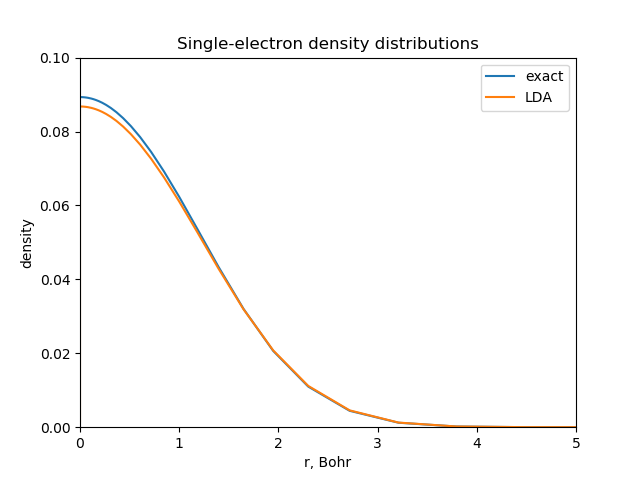
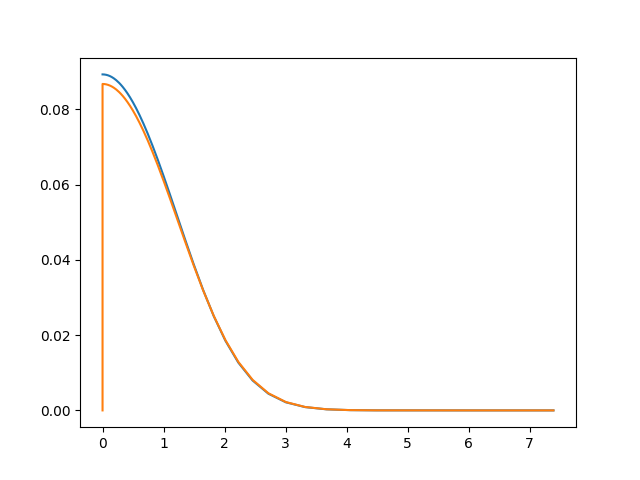
updated README examples

diff --git a/README.md b/README.md
@@ -14,37 +14,50 @@ Solve numerically
 ### Morse potential
 
 Using the following code, one can find the vibrational levels of the radical OH⋅,
-for which the potential energy surface is approximated through the Morse potential.
-
-The bulk of the calculations were performed by the Laplacian function.
+for which the potential energy surface is approximated through the [Morse potential](https://en.wikipedia.org/wiki/Morse_potential).
 
 ```julia
-using LinearAlgebra, AtomEnergyLevels
+using AtomEnergyLevels
+using LinearAlgebra, Test, Printf
 
 # Morse potential
-V(x, D, β, x₀) = D*(exp(-β*(x-x₀))-1)^2 - D;  
+V(x, D, β, x₀) = D*(exp(-β*(x-x₀))-1)^2 - D;
 
 # parameters of the O-H bond
 D  = 0.1994;   β = 1.189;  x₀ = 1.821;
 mH = 1.00794; mO = 15.9994; μ = 1822.8885*(mH*mO)/(mH+mO);  
 
 # grid
-x = range(2.0 - x₀, 12.0 + x₀, length = 501);
+x = (2.0 - x₀):0.1:(12.0 + x₀);
 
-Δ = laplacian(length(x), step(x));  
+# hamiltonian
+H = -1/2μ*laplacian(x) + Diagonal(V.(x, D, β, x₀));
 
-# Hamiltonian
-H = -1/2μ*Δ + Diagonal(V.(x, D, β, x₀));
-
-# numerical solution:
+# numerical solution
 ϵ, ψ = eigen(H);                      
 
 # exact solution
 ω = β*sqrt(2D/μ); δ = ω^2 / 4D;  
 E(n) = ω*(n+1/2) - δ*(n+1/2)^2 - D;
 
-ϵ[1] # -0.19047201661032384
-E(0) # -0.19047201661032412  
+# comparison
+@testset "energies of the Morse potential" begin
+  for i in 1:5
+    @printf "Level %i: E(exact) = %5.10f E(approx) = %5.10f\n" i E(i-1) ϵ[i]
+    @test ϵ[i] ≈ E(i-1) atol = 1e-9
+  end
+end
+```
+Output
+```
+Level 1: E(exact) = -0.1904720166 E(approx) = -0.1904720166
+Level 2: E(exact) = -0.1732294768 E(approx) = -0.1732294768
+Level 3: E(exact) = -0.1568048397 E(approx) = -0.1568048397
+Level 4: E(exact) = -0.1411981052 E(approx) = -0.1411981048
+Level 5: E(exact) = -0.1264092734 E(approx) = -0.1264092731
+Test Summary:                   | Pass  Total
+energies of the Morse potential |    5      5
+Test.DefaultTestSet("energies of the Morse potential", Any[], 5, false)
 ```
 ### 3D isotropic harmonic oscillator problem
 
@@ -59,14 +72,8 @@ using AtomEnergyLevels, Printf
 # electronic configuration
 cfg = "1s1 2s1 3s1 2p1 3p1 4p1 3d1 4d1 5d1";
 
-# radial grid
-r, n, dx = begin
-  x = range(-30, 20, length = 501)
-  exp.(x), length(x), step(x)
-end;
-
 # solution of the Schrödinger equation
-ψ = radial_shr_eq((r, n, dx), 1/2*r.^2, conf_enc(cfg)).orbitals;
+ψ = radial_shr_eq(r -> 1/2*r^2, conf = conf_enc(cfg)).orbitals;
 
 # sort levels by energy
 p = sortperm(ψ[3,:]); ψ = ψ[:, p];
@@ -96,12 +103,9 @@ Find the total energy and density of the [Hooke's atom](https://en.wikipedia.org
 ```julia
 using AtomEnergyLevels
 
-r, n, dx = begin
-    x = range(-30, 20, length = 501)
-    exp.(x), length(x), step(x)
-end;
+xgrid = -30.0:0.1:2.0;
 
-result = lda((r, n, dx), conf = 2, vp = 1/8 * r.^2, β = 0.8);
+result = lda(2, xgrid, conf = 2, Vex = r -> 1/8 * r^2, β = 0.8);
 
 using SpecialFunctions, PyPlot
 pygui(true);
@@ -111,13 +115,13 @@ pygui(true);
 # renormalization for an exactly solvable model, JCP 99, 417 (1993); 
 # http://dx.doi.org/10.1063/1.465765
 
+r  = exp.(xgrid);
 N² = 1 / (π^(3/2) * (8 + 5 * sqrt(π)));
 ρₑ = @. 2N² * exp(-1/2 * r^2) * (sqrt(π/2) * (7/4 + 1/4 * r^2
                    + (r + 1/r) * erf(r/sqrt(2))) + exp(-1/2 * r^2));
 
-intv = 1:317; # r = 0 .. 5
-plot(r[intv], ρₑ[intv], label = "exact"); 
-plot(r[intv], result.density[intv], label = "LDA");
+plot(r, ρₑ, label = "exact"); 
+plot(r, result.density ./ r, label = "LDA");
 ```
 
 ![Comparison of the exact Hooke's atom density with LDA numerical result](./hooke_atom_density.png)
@@ -130,39 +134,54 @@ Calculations, Uranium](https://www.nist.gov/pml/atomic-reference-data-electronic
 ```julia
 using AtomEnergyLevels, Printf
 
-@time result = lda(Z = 92, β = 0.5);
-[ Info: Neutral atom with Z = 92 and U electron configuration is assumed.
+function uranium()
+  result = lda(92, β = 0.5);
+  ψ = result.orbitals;
+  p = sortperm(ψ[3,:]);
+  ψ = ψ[:, p];
+  for (i, ϵᵢ) in enumerate(ψ[3,:])
+    l, nᵣ, nᵢ = ψ[1, i], ψ[2, i], ψ[4, i]
+    n = nᵣ + l + 1
+    @printf("\t%i%s\t(%4.1f)\t%14.6f\n", n, atomic_shell[l+1], nᵢ, ϵᵢ)
+  end
+end
+
+@time uranium()
+```
+Output:
+```
+julia> @time uranium()
 [ Info: Using logarithmic 501 point grid with step dx = 0.1000
 [ Info: Using Thomas-Fermi starting electron density
 ┌ Info: Starting SCF procedure with density mixing parameter β = 0.5000
 └       and convergence threshold |Δρ| ≤ 1.000000e-06
-[ Info: cycle       energy      |Δρ|
-[ Info:   0  -25892.940688     13.946827
-[ Info:   1  -25648.785452      6.210687
-[ Info:   2  -25663.151615      2.715824
-[ Info:   3  -25658.522677      1.331700
-[ Info:   4  -25658.683795      0.663356
-[ Info:   5  -25658.531924      0.330864
-[ Info:   6  -25658.485432      0.165669
-[ Info:   7  -25658.455013      0.083251
-[ Info:   8  -25658.438247      0.041877
-[ Info:   9  -25658.428850      0.021078
-[ Info:  10  -25658.423720      0.010617
-[ Info:  11  -25658.420960      0.005357
-[ Info:  12  -25658.419493      0.002707
-[ Info:  13  -25658.418722      0.001369
-[ Info:  14  -25658.418319      0.000693
-[ Info:  15  -25658.418110      0.000351
-[ Info:  16  -25658.418003      0.000178
-[ Info:  17  -25658.417947      0.000090
-[ Info:  18  -25658.417918      0.000046
-[ Info:  19  -25658.417904      0.000023
-[ Info:  20  -25658.417896      0.000012
-[ Info:  21  -25658.417893      0.000006
-[ Info:  22  -25658.417891      0.000003
-[ Info:  23  -25658.417890      0.000002
-[ Info:  24  -25658.417889      0.000001
-[ Info:  25  -25658.417889      0.000000
+[ Info: cycle           energy          |Δρ|
+[ Info:   0      -25892.940688     13.946827
+[ Info:   1      -25648.785452      6.210687
+[ Info:   2      -25663.151615      2.715824
+[ Info:   3      -25658.522677      1.331700
+[ Info:   4      -25658.683795      0.663356
+[ Info:   5      -25658.531924      0.330864
+[ Info:   6      -25658.485432      0.165669
+[ Info:   7      -25658.455013      0.083251
+[ Info:   8      -25658.438247      0.041877
+[ Info:   9      -25658.428850      0.021078
+[ Info:  10      -25658.423720      0.010617
+[ Info:  11      -25658.420960      0.005357
+[ Info:  12      -25658.419493      0.002707
+[ Info:  13      -25658.418722      0.001369
+[ Info:  14      -25658.418319      0.000693
+[ Info:  15      -25658.418110      0.000351
+[ Info:  16      -25658.418003      0.000178
+[ Info:  17      -25658.417947      0.000090
+[ Info:  18      -25658.417918      0.000046
+[ Info:  19      -25658.417904      0.000023
+[ Info:  20      -25658.417896      0.000012
+[ Info:  21      -25658.417893      0.000006
+[ Info:  22      -25658.417891      0.000003
+[ Info:  23      -25658.417890      0.000002
+[ Info:  24      -25658.417889      0.000001
+[ Info:  25      -25658.417889      0.000000
 ┌ Info: RESULTS SUMMARY:
 │       ELECTRON KINETIC           25651.231180
 │       ELECTRON-ELECTRON           9991.594177
@@ -170,34 +189,25 @@ using AtomEnergyLevels, Printf
 │       ELECTRON-NUCLEAR          -60876.210618
 │       TOTAL ENERGY              -25658.417889
 └       VIRIAL RATIO                   2.000280
-  4.287030 seconds (28.16 k allocations: 1.189 GiB, 1.15% gc time)
-
-ψ = result.orbitals;
-p = sortperm(ψ[3,:]);
-ψ = ψ[:, p];
-for (i, ϵᵢ) in enumerate(ψ[3,:])
-  l, nᵣ, nᵢ = ψ[1, i], ψ[2, i], ψ[4, i]
-  n = nᵣ + l + 1
-  @printf("\t%i%s\t(%4.1f)\t%14.6f\n", n, atomic_shell[l+1], nᵢ, ϵᵢ)
-end
-    1S  ( 2.0)    -3689.355140
-    2S  ( 2.0)     -639.778728
-    2P  ( 6.0)     -619.108550
-    3S  ( 2.0)     -161.118073
-    3P  ( 6.0)     -150.978980
-    3D  (10.0)     -131.977358
-    4S  ( 2.0)      -40.528084
-    4P  ( 6.0)      -35.853321
-    4D  (10.0)      -27.123212
-    4F  (14.0)      -15.027460
-    5S  ( 2.0)       -8.824089
-    5P  ( 6.0)       -7.018092
-    5D  (10.0)       -3.866175
-    6S  ( 2.0)       -1.325976
-    6P  ( 6.0)       -0.822538
-    5F  ( 3.0)       -0.366543
-    6D  ( 1.0)       -0.143190
-    7S  ( 2.0)       -0.130948
+        1S      ( 2.0)    -3689.355140
+        2S      ( 2.0)     -639.778728
+        2P      ( 6.0)     -619.108550
+        3S      ( 2.0)     -161.118073
+        3P      ( 6.0)     -150.978980
+        3D      (10.0)     -131.977358
+        4S      ( 2.0)      -40.528084
+        4P      ( 6.0)      -35.853321
+        4D      (10.0)      -27.123212
+        4F      (14.0)      -15.027460
+        5S      ( 2.0)       -8.824089
+        5P      ( 6.0)       -7.018092
+        5D      (10.0)       -3.866175
+        6S      ( 2.0)       -1.325976
+        6P      ( 6.0)       -0.822538
+        5F      ( 3.0)       -0.366543
+        6D      ( 1.0)       -0.143190
+        7S      ( 2.0)       -0.130948
+  3.597893 seconds (77.16 k allocations: 1.193 GiB, 0.85% gc time)
 ```
 
 ## Author
